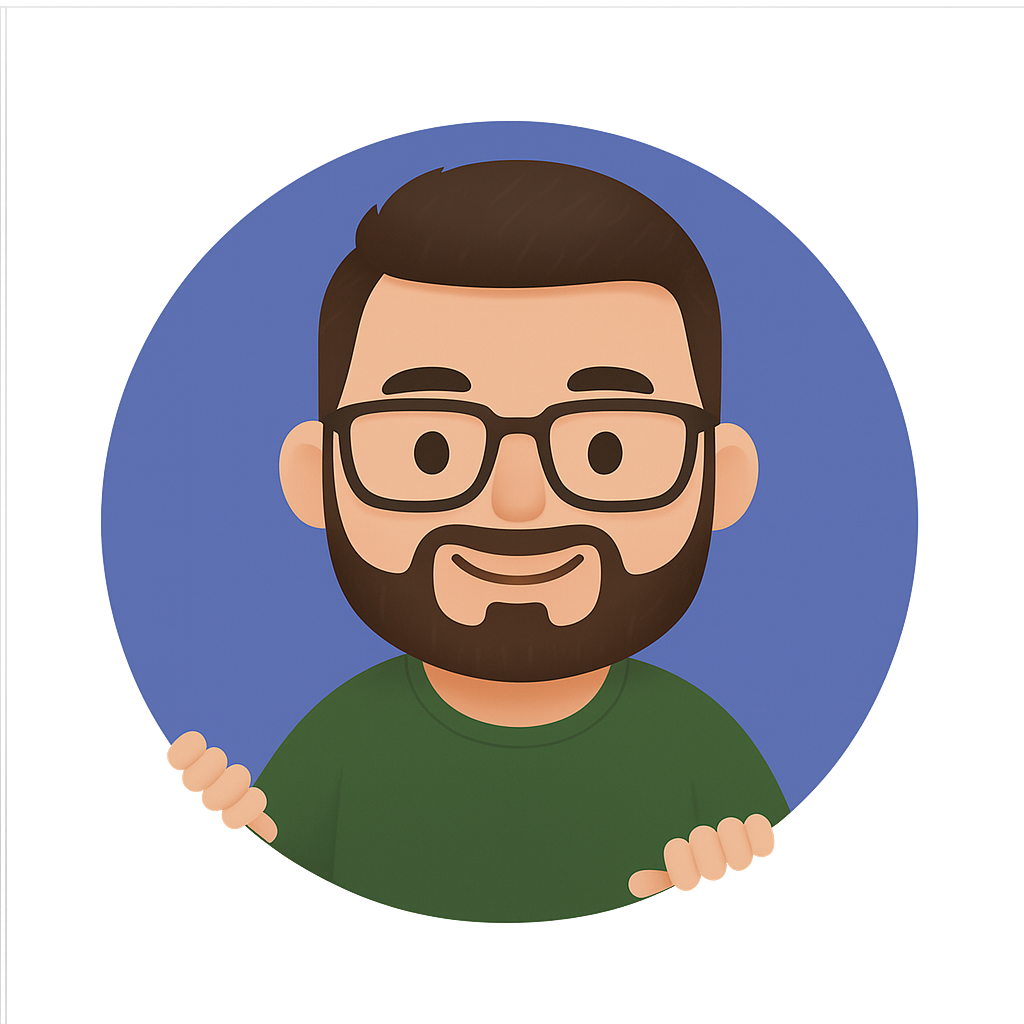
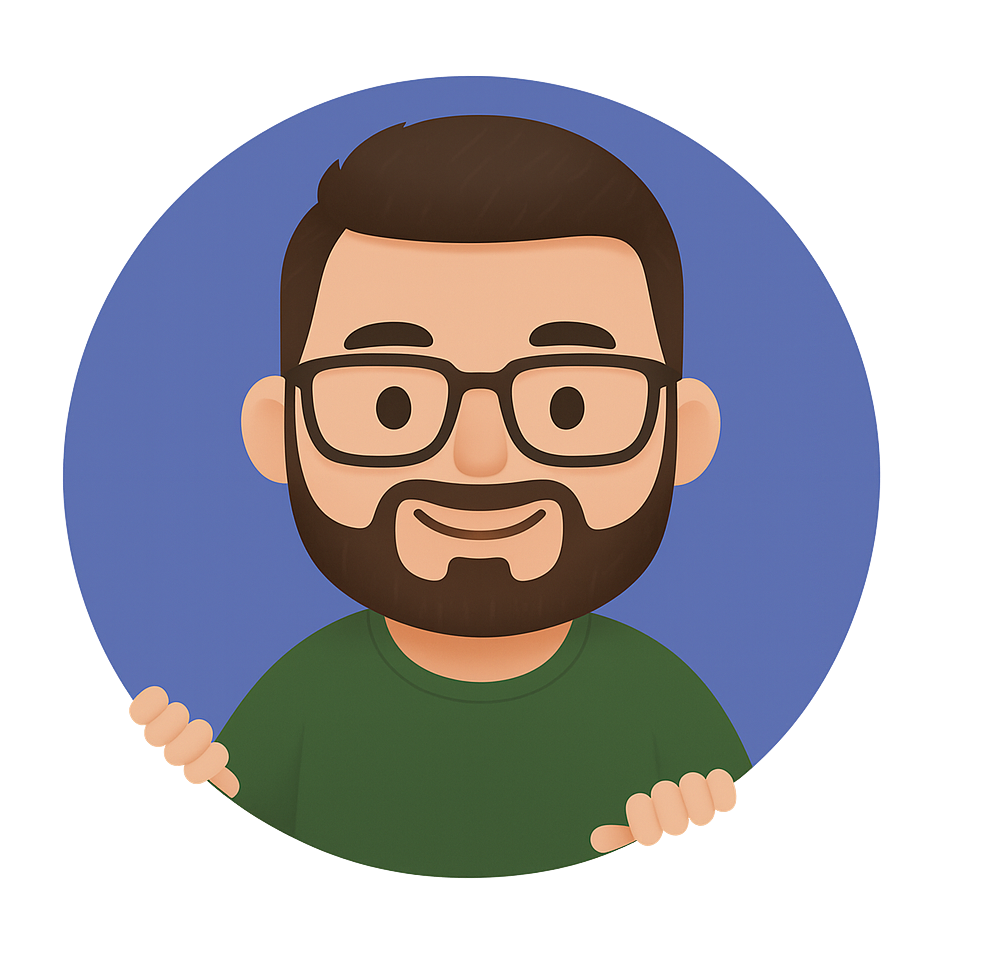
feat: add Hero component with styling and image integration

diff --git a/src/componets/hero/hero.module.css b/src/componets/hero/hero.module.css
@@ -1,0 +1,158 @@
+@import "../../vars.css";
+
+.container {
+    position: relative;
+    display: flex;
+    align-items: center;
+    justify-content: space-between;
+    margin-top: 49px;;
+    z-index: 1;
+    margin-left: 10%;
+    margin-right: 10%;
+}
+
+.content {
+    display: flex;
+    flex-direction: column;
+    align-items: flex-start;
+    color: var(--color-text);
+    z-index: 1;
+}
+
+.title {
+    font-size: 3.5rem;
+    font-weight: 900;
+    margin-bottom: 33px;
+    font-family: var(--font-roboto);
+    background: linear-gradient(
+        90deg,
+       rgba(255, 255, 255, 1) 70%,
+       rgba(255, 255, 255, 0) 120%
+    );
+    -webkit-text-fill-color: transparent;
+    -webkit-background-clip: text;
+    background-clip: text;
+}
+
+.description {
+    font-size: 25px;
+    margin-bottom: 52px;
+    font-family: var(--font-roboto);
+}
+
+.contactBtn {
+    position: relative;
+    display: flex;
+    align-items: center;
+    justify-content: center;
+    width: 200px;
+    height: 50px;
+    background-color: var(--color-primary);
+    color: var(--color-text);
+    font-size: 1.2rem;
+    font-weight: 500;
+    text-decoration: none;
+    border-radius: 30px;
+    overflow: hidden;
+    transition: 
+        color 0.3s,
+        background-color 0.3s,
+        transform 0.3s;
+}
+
+.contactBtn:hover {
+    color: var(--color-primary-dark);
+    background-color: var(--color-primary);
+    transform: translateY(-2px) scale(1.07);
+}
+
+.heroImg{
+    width: 50%;
+    z-index: 1;
+
+    animation-name: floating;
+    animation-duration: 3s;
+    animation-iteration-count: infinite;
+    animation-timing-function: ease-in-out;
+}
+
+@keyframes floating {
+    0% {
+        transform: translateY(0);
+    }
+    50% {
+        transform: translateY(-20px);
+    }
+    100% {
+        transform: translateY(0);
+    }
+}
+
+.topBlur{
+    position: absolute;
+    width: 50vw;
+    height: 50vw;
+    min-width: 350px;
+    min-height: 350px;
+    top: -128px;
+    left: 10vw;
+    border-radius: 764px;
+    background: linear-gradient(
+        90deg,
+        rgba(255, 255, 255, 0.1) 0%,
+        rgba(255, 255, 255, 0.1) 100%
+    );
+    filter: blur(100px);
+    z-index: 0;
+}
+
+.botonBlur{
+    position: absolute;
+    width: 70vw;
+    height: 50vw;
+    min-width: 350px;
+    min-height: 250px;
+    bottom: 246px;
+    right: -25vw;
+    border-radius: 764px;
+    background: linear-gradient(
+        90deg,
+        rgba(255, 255, 255, 0.1) 0%,
+        rgba(255, 255, 255, 0.1) 100%
+    );
+    filter: blur(100px);
+    z-index: 0;
+}
+
+@media screen and (max-width: 830px) {
+    .container {
+        flex-direction: column-reverse;
+        align-items: center;
+        margin-top: 20px;
+    }
+
+    .content {
+        align-items: center;
+        text-align: center;
+    }
+
+    .title {
+        font-size: 2.5rem;
+    }
+
+    .description {
+        font-size: 1.2rem;
+        margin-bottom: 20px;
+    }
+
+    .contactBtn {
+        width: 180px;
+        height: 45px;
+        font-size: 1rem;
+    }
+
+    .heroImg {
+        width: 80%;
+    }
+    
+}

diff --git a/src/componets/hero/hero.jsx b/src/componets/hero/hero.jsx
@@ -1,0 +1,18 @@
+import React from "react";
+import { getImageUrl } from "../../utils";
+import styles from "./hero.module.css";
+
+export const Hero = () => {
+    return (
+        <section className={styles.container}>
+            <div className={styles.content}>
+                <h1 className={styles.title}>Olá, eu sou Paulo Chiaradia</h1>
+                <p className={styles.description}>Possuo forte interesse por microcontroladores e análise de dados, sendo movido pela curiosidade em explorar novas tecnologias e soluções inovadoras.</p>    
+                <a href="mailto:eu@paulochiaradia.com.br" className={styles.contactBtn}>Entre em Contato</a>
+            </div>
+            <img src={getImageUrl("hero/heroImage.png")} alt="hero image of me" className={styles.heroImg}/>
+            <div className={styles.topBlur}/>
+            <div className={styles.bottomBlur}/>
+        </section>
+    );
+}

diff --git a/src/componets/navbar/navbar.module.css b/src/componets/navbar/navbar.module.css
@@ -15,10 +15,14 @@
   font-weight: 600;
   text-decoration: none;
   color: var(--color-text);
+  transition: 
+    color 0.3s,
+    transform 0.2s cubic-bezier(.4,0,.2,1); /* Adiciona transição suave */
 }
 
 .title:hover {
-  color: var(--color-title);
+  color: var(--color-primary);
+  transform: scale(1.08); /* Efeito de destaque */
 }
 
 .menu {
@@ -34,11 +38,22 @@
 .menuItens a {
   text-decoration: none;
   color: var(--color-text);
-  font-size: 1.3rem; /* Altere este valor para o tamanho desejado */
+  font-size: 1.3rem;
+  transition: 
+    color 0.3s,
+    transform 0.2s cubic-bezier(.4,0,.2,1); /* Adiciona transição suave */
 }
 
 .menuItens a:hover {
-  color: var(--color-title);
+  color: var(--color-primary);
+  transform: scale(1.08); /* Efeito de destaque */
+}
+
+.menuItens li {
+  display: flex;
+  justify-content: center;
+  align-items: center;
+  overflow: visible;
 }
 
 .menuBtn {

diff --git a/src/App.jsx b/src/App.jsx
@@ -1,9 +1,11 @@
 import style from './App.module.css'
 import { Navbar } from './componets/navbar/navbar'
+import {Hero} from './componets/hero/hero'
 
 function App() {
   return <div className={style.App}>
     <Navbar />
+    <Hero />
   </div>
 }
 
